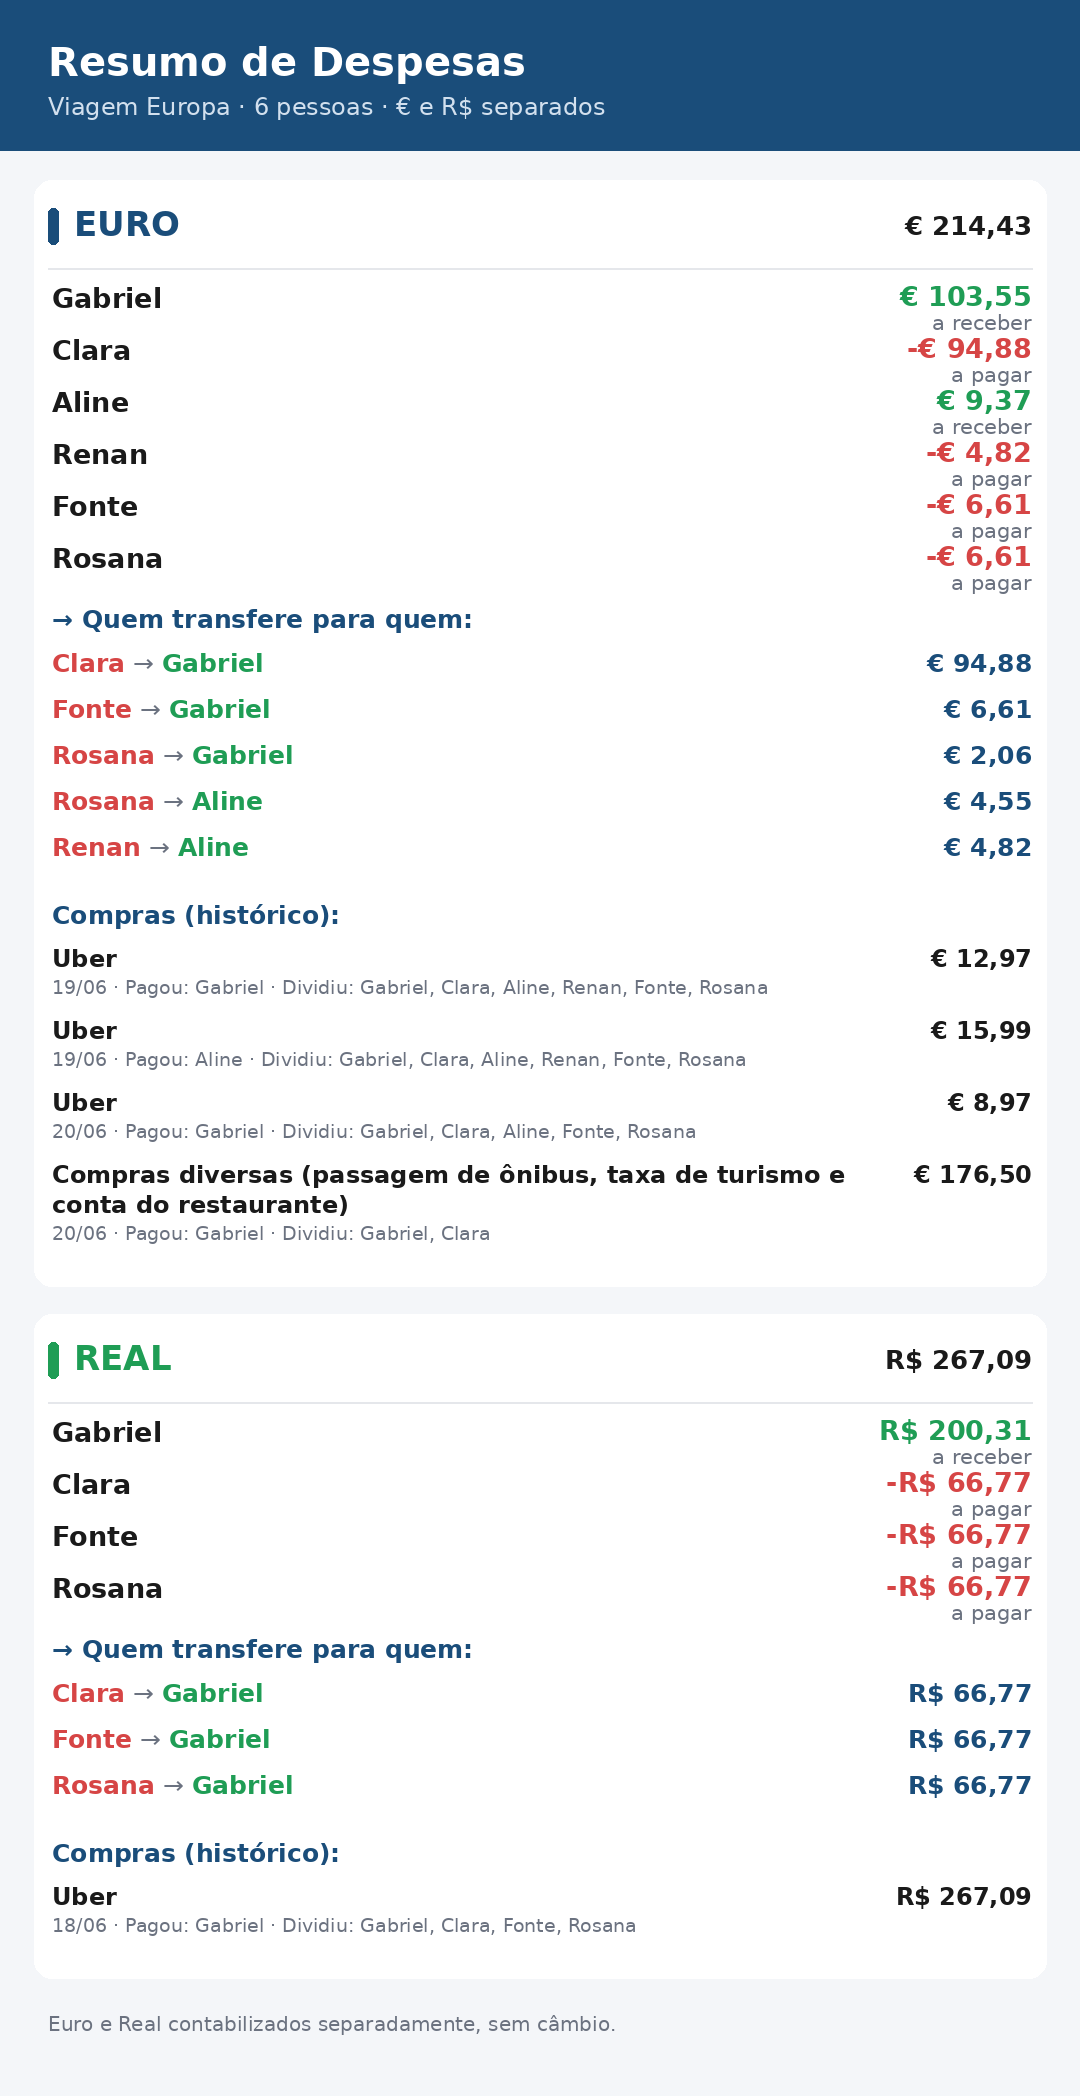
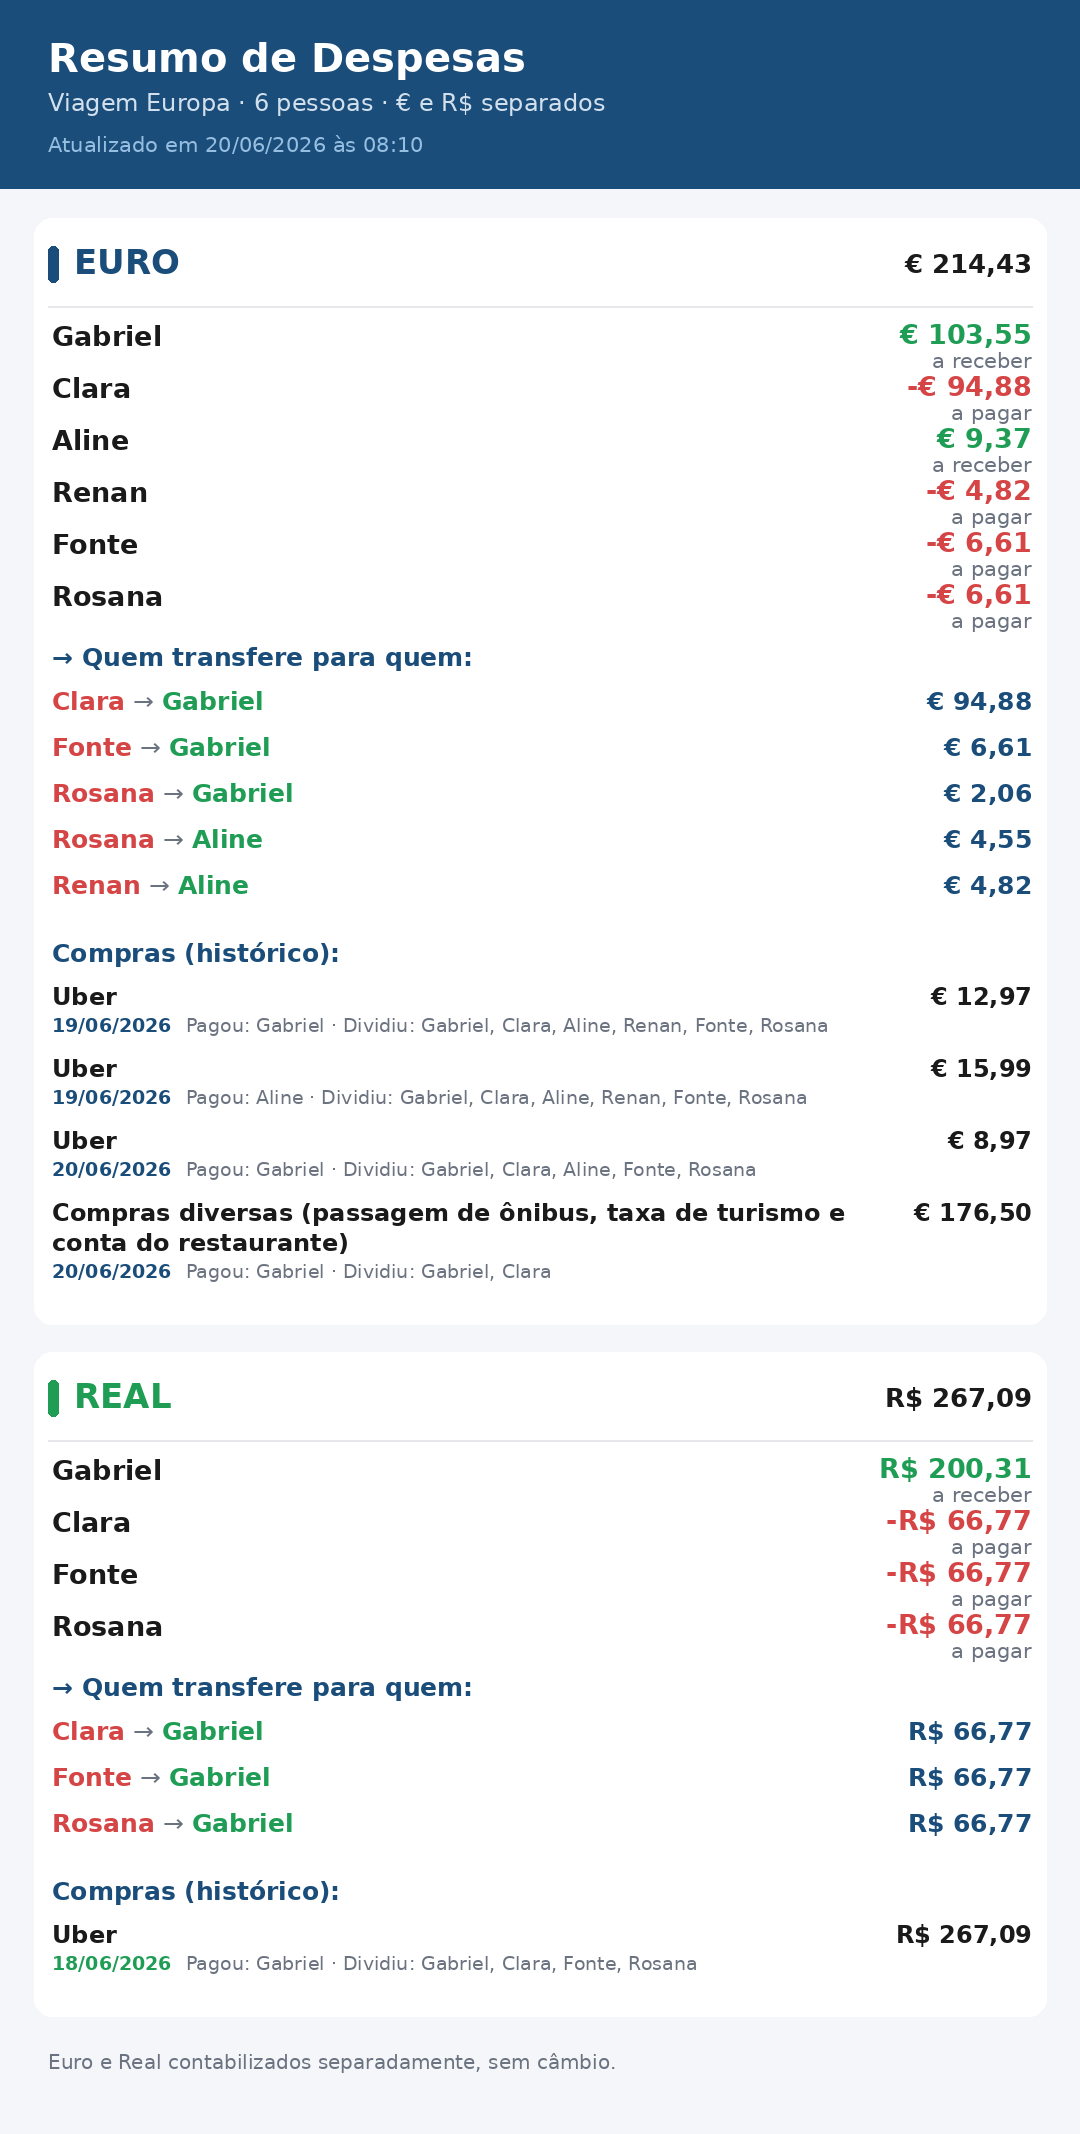
Resumo: datas das compras em destaque + data/hora de atualização
Cada compra mostra a data (DD/MM/AAAA) em destaque e o cabeçalho exibe
"Atualizado em ..." no fuso de Brasília.

Claude-Session: https://claude.ai/code/session_01WZZUhXQ16qMQfhyK5EDhBH

diff --git a/gerar_resumo.py b/gerar_resumo.py
@@ -14,6 +14,12 @@ Uso:  python3 gerar_resumo.py
 Saída: resumo.png
 """
 import json, subprocess, os
+from datetime import datetime
+try:
+    from zoneinfo import ZoneInfo
+    TZ = ZoneInfo("America/Sao_Paulo")
+except Exception:
+    TZ = None
 from PIL import Image, ImageDraw, ImageFont
 
 PEOPLE = ["Gabriel", "Clara", "Aline", "Renan", "Fonte", "Rosana"]
@@ -104,6 +110,8 @@ f_tx     = F("DejaVuSans.ttf", 25)
 f_subh   = F("DejaVuSans-Bold.ttf", 25)
 f_entry  = F("DejaVuSans-Bold.ttf", 24)
 f_small  = F("DejaVuSans.ttf", 19)
+f_date   = F("DejaVuSans-Bold.ttf", 19)
+f_upd    = F("DejaVuSans.ttf", 21)
 f_foot   = F("DejaVuSans.ttf", 20)
 
 # cores
@@ -122,11 +130,13 @@ PAD = 48
 CONTENT_W = W - 2 * PAD
 _md = ImageDraw.Draw(Image.new("RGB", (10, 10)))
 
-def wrap(text, font, max_w):
+def wrap(text, font, first_w, rest_w=None):
+    rest_w = rest_w if rest_w is not None else first_w
     words = text.split()
     lines, cur = [], ""
     for w in words:
         t = (cur + " " + w).strip()
+        max_w = first_w if not lines else rest_w
         if _md.textlength(t, font=font) <= max_w or not cur:
             cur = t
         else:
@@ -139,11 +149,12 @@ def entry_layout(e, sym):
     vw = _md.textlength(valtxt, font=f_entry)
     dlines = wrap(e["desc"], f_entry, CONTENT_W - vw - 18)
     d = e.get("data", "")
-    dd = (d[8:10] + "/" + d[5:7] + " · ") if len(d) >= 10 else ""
-    meta = dd + "Pagou: " + ", ".join(e["pagou"]) + "  ·  Dividiu: " + ", ".join(e["dividir"])
-    mlines = wrap(meta, f_small, CONTENT_W)
+    datestr = (d[8:10] + "/" + d[5:7] + "/" + d[0:4]) if len(d) >= 10 else ""
+    dw = (_md.textlength(datestr, font=f_date) + 14) if datestr else 0
+    meta = "Pagou: " + ", ".join(e["pagou"]) + "  ·  Dividiu: " + ", ".join(e["dividir"])
+    mlines = wrap(meta, f_small, CONTENT_W - dw, CONTENT_W)
     h = len(dlines) * 30 + len(mlines) * 24 + 18
-    return dlines, mlines, valtxt, vw, h
+    return dlines, mlines, valtxt, vw, datestr, dw, h
 
 def card_height(rows, tx, entries, sym):
     h = 24            # top pad
@@ -156,7 +167,7 @@ def card_height(rows, tx, entries, sym):
     h += 22           # gap
     h += 44           # entries title
     for e in entries:
-        h += entry_layout(e, sym)[4]
+        h += entry_layout(e, sym)[6]
     h += 24           # bottom pad
     return h
 
@@ -170,7 +181,8 @@ def draw_image(exps):
             rows = [n for n in PEOPLE if paid[n] != 0 or owed[n] != 0]
             blocks.append((m, total, paid, owed, bal, settle(bal), rows, ents))
 
-    total_h = 150 + 30
+    HEAD_H = 188
+    total_h = HEAD_H + 30
     for (m, total, paid, owed, bal, tx, rows, ents) in blocks:
         total_h += card_height(rows, tx, ents, CUR[m]["sym"]) + 28
     total_h += 90
@@ -179,11 +191,13 @@ def draw_image(exps):
     d = ImageDraw.Draw(img)
 
     # header
-    d.rectangle([0, 0, W, 150], fill=C_HEAD)
-    d.text((PAD, 38), "Resumo de Despesas", font=f_title, fill=C_WHITE)
-    d.text((PAD, 92), "Viagem Europa · 6 pessoas · € e R$ separados",
+    d.rectangle([0, 0, W, HEAD_H], fill=C_HEAD)
+    d.text((PAD, 34), "Resumo de Despesas", font=f_title, fill=C_WHITE)
+    d.text((PAD, 88), "Viagem Europa · 6 pessoas · € e R$ separados",
            font=f_sub, fill=(210, 224, 238))
-    y = 150 + 30
+    upd = "Atualizado em " + datetime.now(TZ).strftime("%d/%m/%Y às %H:%M")
+    d.text((PAD, 132), upd, font=f_upd, fill=(150, 190, 225))
+    y = HEAD_H + 30
 
     for (m, total, paid, owed, bal, tx, rows, ents) in blocks:
         sym = CUR[m]["sym"]
@@ -234,13 +248,16 @@ def draw_image(exps):
         d.text((PAD + 4, cy), "Compras (histórico):", font=f_subh, fill=C_HEAD)
         cy += 44
         for e in ents:
-            dlines, mlines, valtxt, vw, eh = entry_layout(e, sym)
+            dlines, mlines, valtxt, vw, datestr, dw, eh = entry_layout(e, sym)
             d.text((W - PAD - vw, cy), valtxt, font=f_entry, fill=C_TEXT)
             for i, ln in enumerate(dlines):
                 d.text((PAD + 4, cy + i * 30), ln, font=f_entry, fill=C_TEXT)
             my = cy + len(dlines) * 30 + 2
+            if datestr:
+                d.text((PAD + 4, my), datestr, font=f_date, fill=accent)
             for i, ln in enumerate(mlines):
-                d.text((PAD + 4, my + i * 24), ln, font=f_small, fill=C_MUTED)
+                x = PAD + 4 + (dw if i == 0 else 0)
+                d.text((x, my + i * 24), ln, font=f_small, fill=C_MUTED)
             cy += eh
 
         y += ch + 28
